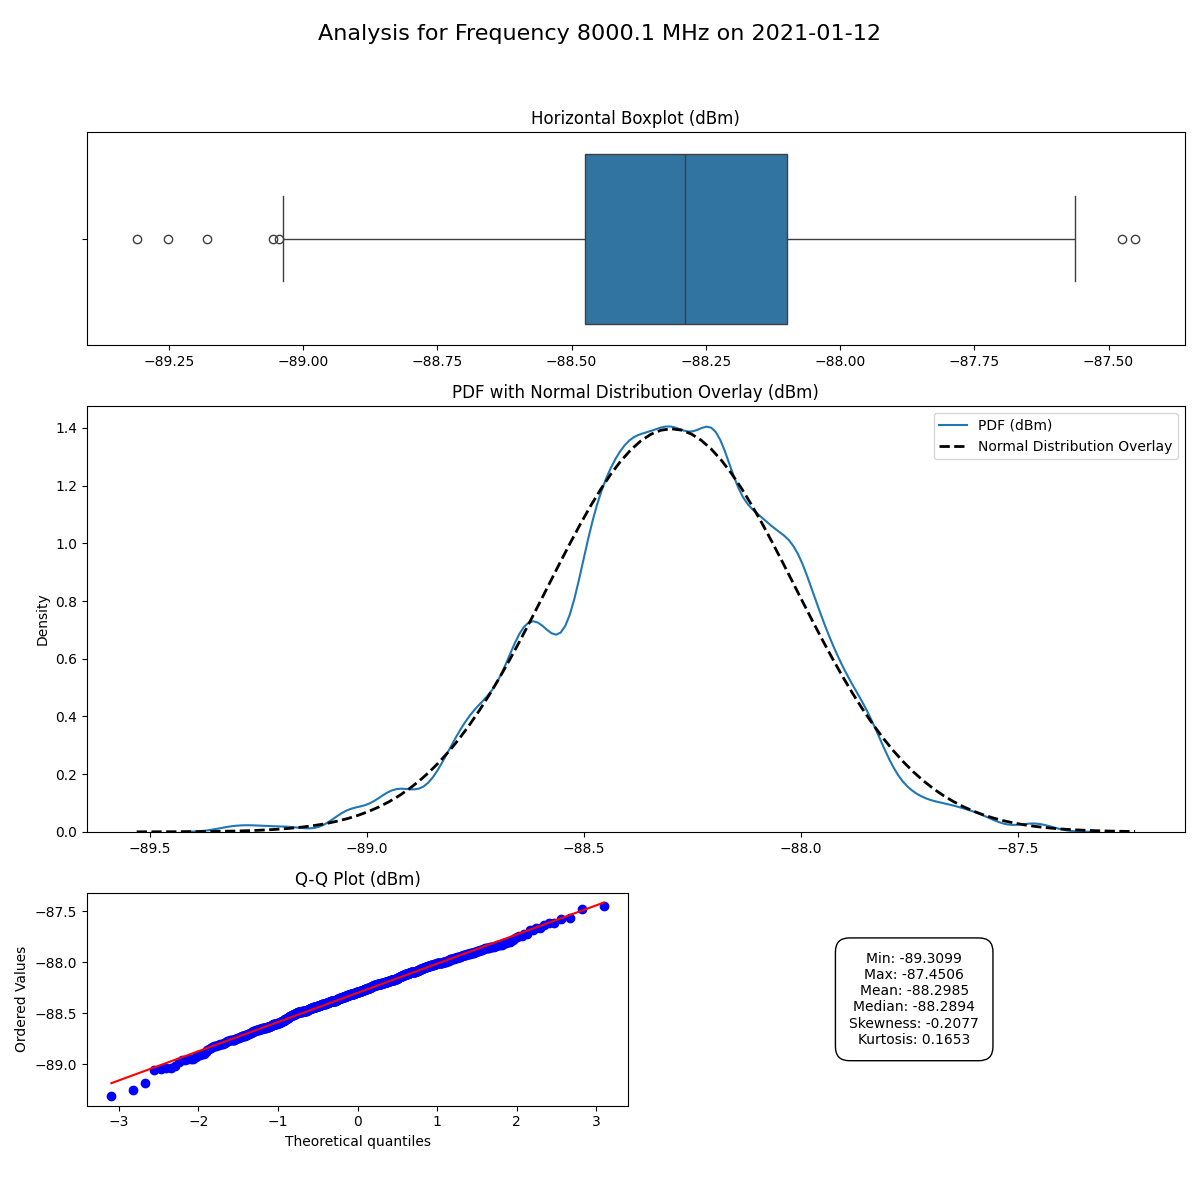
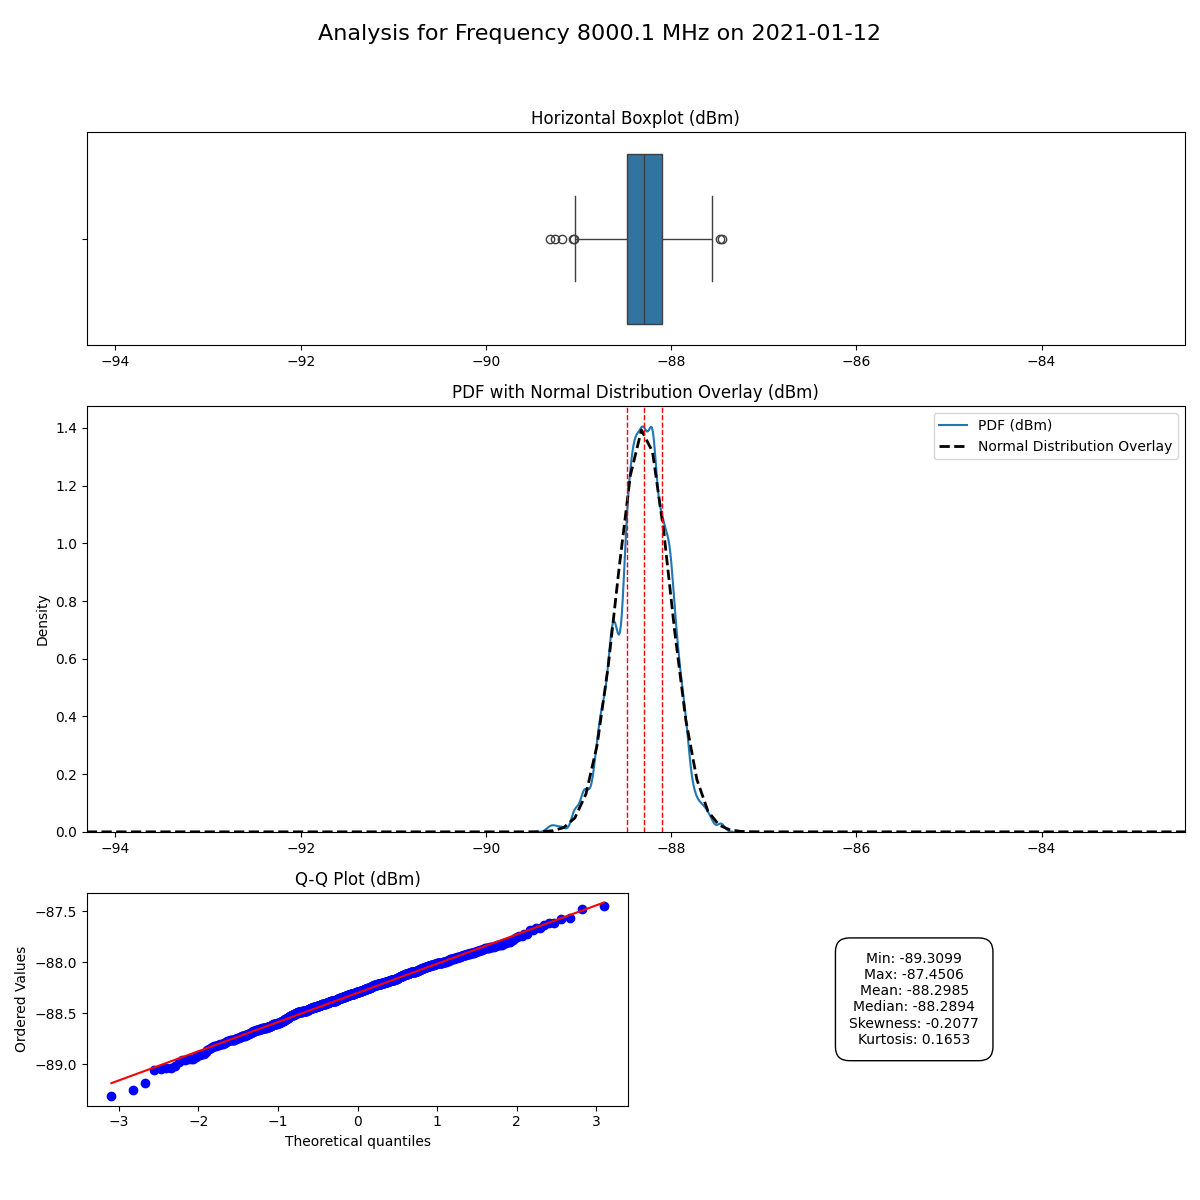
plots

diff --git a/scripts/tri_plot2.py b/scripts/tri_plot2.py
@@ -38,44 +38,47 @@ def compute_statistics(data_dbm):
     return stats_values
 
 def create_plots(data, target_frequency, date):
-    """Create a layout with a horizontal boxplot, PDF plot underneath, then Q-Q plot and statistics underneath that."""
     data_dbm = convert_to_dbm(data)
+    mean = np.mean(data_dbm)
+    std = np.std(data_dbm)
+    q1, median, q3 = np.percentile(data_dbm, [25, 50, 75])
+    iqr = q3 - q1
     
-    fig = plt.figure(figsize=(12, 12))  # Adjust figure size for better fit
-    gs = fig.add_gridspec(3, 2, height_ratios=[1, 2, 1])  # Define grid layout
-
+    fig, (ax1, ax2) = plt.subplots(nrows=2, sharex=True, figsize=(12, 12))
     fig.suptitle(f'Analysis for Frequency {target_frequency} MHz on {date}', fontsize=16)
+    
+    medianprops = dict(linestyle='-', linewidth=2, color='yellow')
+    sns.boxplot(x=data_dbm, color='lightcoral', saturation=1, medianprops=medianprops,
+                flierprops={'markerfacecolor': 'mediumseagreen'}, whis=1.5, ax=ax1)
 
-    # Boxplot
-    ax0 = fig.add_subplot(gs[0, :])  # Boxplot across the top
-    sns.boxplot(data=data_dbm, orient="h", ax=ax0)
-    ax0.set_title('Horizontal Boxplot (dBm)')
+    ticks = [mean + std * i for i in range(-4, 5)]
+    ticklabels = [f'${i}\\sigma$' for i in range(-4, 5)]
+    ax1.set_xticks(ticks)
+    ax1.set_xticklabels(ticklabels)
+    ax1.set_yticks([])
+    ax1.tick_params(labelbottom=True)
+    ax1.set_ylim(-1, 1.5)
 
-    # PDF with Normal Distribution Overlay
-    ax1 = fig.add_subplot(gs[1, :])  # PDF plot below the boxplot
-    sns.kdeplot(data_dbm, ax=ax1, label="PDF (dBm)", bw_adjust=0.5)
-    mean, std = np.mean(data_dbm), np.std(data_dbm)
-    xmin, xmax = ax1.get_xlim()
-    x = np.linspace(xmin, xmax, 100)
-    p = stats.norm.pdf(x, mean, std)
-    ax1.plot(x, p, 'k--', linewidth=2, label="Normal Distribution Overlay")
-    ax1.set_title('PDF with Normal Distribution Overlay (dBm)')
-    ax1.legend()
+    # Enhanced annotations
+    ax1.errorbar([q1, q3], [1, 1], yerr=[0.2, 0.2], color='black', lw=1)
+    ax1.text(q1, 0.6, 'Q1', ha='center', va='center', color='black')
+    ax1.text(q3, 0.6, 'Q3', ha='center', va='center', color='black')
+    ax1.text(median, -0.6, 'median', ha='center', va='center', color='black')
+    ax1.text(median, 1.2, 'IQR', ha='center', va='center', color='black')
+    ax1.text(q1 - 1.5*iqr, 0.4, 'Q1 - 1.5*IQR', ha='center', va='center', color='black')
+    ax1.text(q3 + 1.5*iqr, 0.4, 'Q3 + 1.5*IQR', ha='center', va='center', color='black')
 
-    # Q-Q Plot
-    ax2 = fig.add_subplot(gs[2, 0])  # Q-Q plot in the bottom left
-    stats.probplot(data_dbm, dist="norm", plot=ax2)
-    ax2.set_title('Q-Q Plot (dBm)')
+    sns.kdeplot(data_dbm, ax=ax2)
+    kdeline = ax2.lines[0]
+    xs = kdeline.get_xdata()
+    ys = kdeline.get_ydata()
 
-    # Statistics
-    ax3 = fig.add_subplot(gs[2, 1])  # Statistics display in the bottom right
-    ax3.axis('off')  # Hide the axis
-    statistics = compute_statistics(data_dbm)
-    stats_text = '\n'.join([f'{key}: {value:.4f}' for key, value in statistics.items()])
-    ax3.text(0.5, 0.5, stats_text, ha='center', va='center', fontsize=10, transform=ax3.transAxes,
-             bbox=dict(facecolor='white', edgecolor='black', boxstyle='round,pad=1'))
+    ylims = ax2.get_ylim()
+    ax2.fill_between(xs, 0, ys, color='mediumseagreen', alpha=0.5)
+    ax2.fill_between(xs, 0, ys, where=(xs >= q1 - 1.5*iqr) & (xs <= q3 + 1.5*iqr), color='skyblue', alpha=0.5)
+    ax2.fill_between(xs, 0, ys, where=(xs >= q1) & (xs <= q3), color='lightcoral', alpha=0.5)
+    ax2.set_ylim(0, ylims[1])
 
-    plt.tight_layout(rect=[0, 0.03, 1, 0.95])
     plt.show()
 
 def main():
@@ -95,10 +98,3 @@ def main():
 
 if __name__ == "__main__":
     main()
-
-
-
-
-
-
-

diff --git a/scripts/trio_plot3.py b/scripts/trio_plot3.py
@@ -50,17 +50,24 @@ def create_plots(data, target_frequency, date):
     ax0 = fig.add_subplot(gs[0, :])  # Boxplot across the top
     sns.boxplot(data=data_dbm, orient="h", ax=ax0)
     ax0.set_title('Horizontal Boxplot (dBm)')
+    ax0.set_xlim([np.min(data_dbm)-5, np.max(data_dbm)+5])  # Extend the x-axis scale for box plot
 
     # PDF with Normal Distribution Overlay
     ax1 = fig.add_subplot(gs[1, :])  # PDF plot below the boxplot
     sns.kdeplot(data_dbm, ax=ax1, label="PDF (dBm)", bw_adjust=0.5)
     mean, std = np.mean(data_dbm), np.std(data_dbm)
     xmin, xmax = ax1.get_xlim()
-    x = np.linspace(xmin, xmax, 100)
+    x = np.linspace(np.min(data_dbm)-5, np.max(data_dbm)+5, 100)  # Extend the x-axis scale for PDF plot
     p = stats.norm.pdf(x, mean, std)
     ax1.plot(x, p, 'k--', linewidth=2, label="Normal Distribution Overlay")
     ax1.set_title('PDF with Normal Distribution Overlay (dBm)')
     ax1.legend()
+    ax1.set_xlim([np.min(data_dbm)-5, np.max(data_dbm)+5])  # Extend the x-axis scale for PDF plot
+
+    # Add quartile lines to PDF plot
+    quartiles = np.percentile(data_dbm, [25, 50, 75])
+    for quartile in quartiles:
+        ax1.axvline(quartile, color='r', linestyle='--', linewidth=1)
 
     # Q-Q Plot
     ax2 = fig.add_subplot(gs[2, 0])  # Q-Q plot in the bottom left
@@ -81,7 +88,7 @@ def create_plots(data, target_frequency, date):
 def main():
     directory_path = "D:\\SouthPole_Signal_Data\\2021"
     data_file = "20210112.csv"
-    target_frequency = '8000.1'  # Assuming frequency is in MHz
+    target_frequency = '449.5'  # Assuming frequency is in MHz
     full_path = os.path.join(directory_path, data_file)
     
     date = data_file.split('.')[0]
